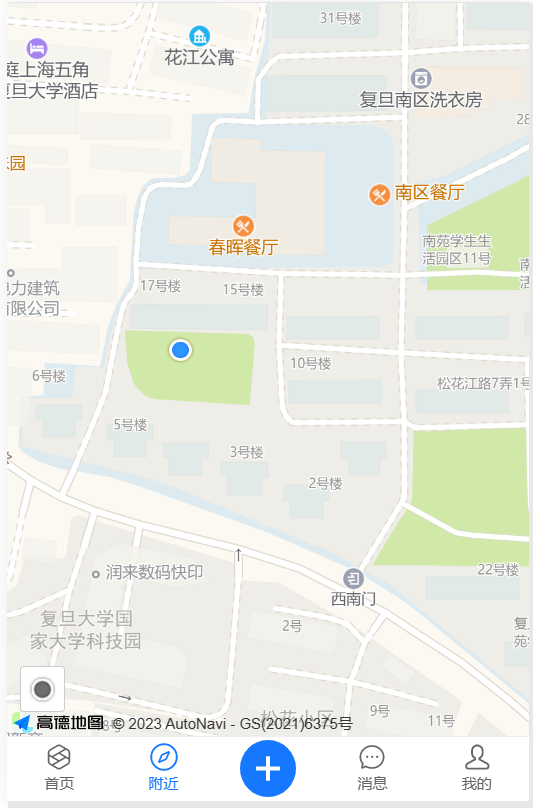
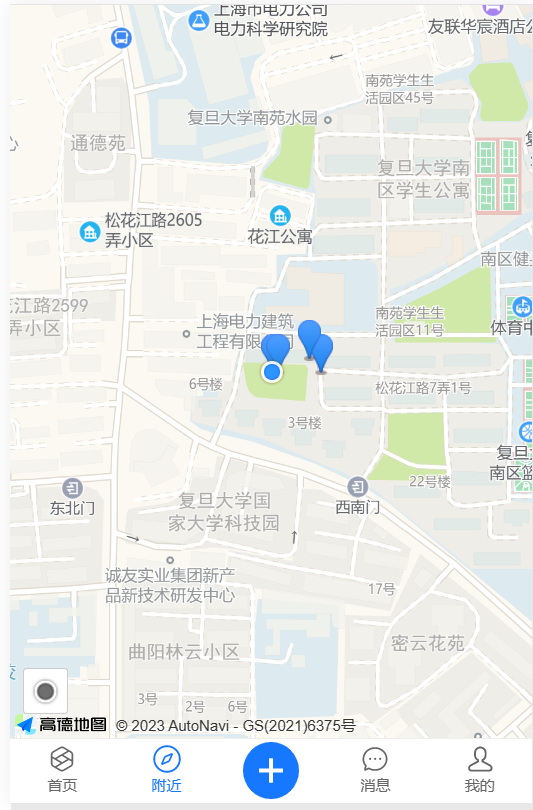
add home page

diff --git a/src/layout/Home/Home.tsx b/src/layout/Home/Home.tsx
@@ -1,20 +1,19 @@
 import Bottom from '../../compoment/Bottom/Bottom';
+import { Card, Space, NavBar } from 'antd-mobile'
+import { useState } from 'react';
+import { HeartOutline, MessageOutline } from 'antd-mobile-icons'
+import curPos from '../../utils/getCurPosition';
 
-const waitTime = (time: number = 100) => {
-	return new Promise((resolve) => {
-	  setTimeout(() => {
-		resolve(true);
-	  }, time);
-	});
-};
 
 // h5 position
 const positionClick = () => {
 	navigator.geolocation.getCurrentPosition(res => {
-		alert('hello')
 	  	console.log("获取位置成功:", res);
+		let [longitude, latitude] = [res.coords.longitude, res.coords.latitude];
+ 		window.AMap.convertFrom([longitude, latitude], "gps", function (status:any, result:any) {
+			console.log([result.locations[0].getLng(), result.locations[0].getLat()]);
+		});
 	}, err => {
-		alert(err.message)
 	  	console.log("获取位置失败:", err);
 	}, {
 	  	enableHighAccuracy: true,
@@ -25,11 +24,47 @@ const positionClick = () => {
 
 // 显示周围的帖子 latitude 维度 longitude 经度
 function Home() {
+
+	type post = {
+		locationx: number,
+		locationy: number,
+		title: string,
+		content: string,
+		likes: number,
+		comment_numbers: number,
+	};
+
+	const test_posts:post[] = [
+		{locationx:121.1, locationy:31.222, title:'Good weather', content:'Today is a good day!', likes: 26, comment_numbers: 5},
+		{locationx:121.1, locationy:31.221, title:'Peace Mood', content:'I will be better.', likes: 550, comment_numbers: 267},
+	];
+
+	const [posts, setPosts] = useState(test_posts);
+	
+	const listPosts = posts.map((post) =>
+		<>
+			<Space></Space>
+			<Card title={post.title} >
+				<Space direction='vertical'>
+					{post.content}
+					<Space>
+						<HeartOutline onClick={() => {alert("暂不支持该功能");}}/>{post.likes}
+						<MessageOutline />{post.comment_numbers}
+					</Space>
+				</Space>
+			</Card>
+		</>
+  	);
+
 	return (
 		<div>
-			
-			
-			<button onClick={positionClick}>Home</button>
+			<NavBar backArrow={false} style={{background:'linear-gradient(to left, #58ACFA, #1677FF)', color:'white'}}>主页</NavBar>
+			<div  style={{background: 'rgb(240,240,240)', width: '100%', height:'85%', position: 'absolute'}}>
+				{/* <button onClick={positionClick}>Home</button> */}
+				<Space direction='vertical' style={{width:'90%', margin: 'auto'}} block>
+					{ listPosts }
+				</Space>
+			</div>
 			<Bottom activeKey='/home' />
 		</div>
 	);

diff --git a/src/layout/Nearby/Nearby.tsx b/src/layout/Nearby/Nearby.tsx
@@ -1,18 +1,42 @@
 import Bottom from '../../compoment/Bottom/Bottom';
 import PMap from "../../compoment/PMap/PMap";
 
-const waitTime = (time: number = 100) => {
-	return new Promise((resolve) => {
-	  setTimeout(() => {
-		resolve(true);
-	  }, time);
-	});
-};
-
 function Nearby() {
 	return (
 		<div>
-			<PMap></PMap>
+			<PMap markers={[
+				{
+					position:{
+						longitude: 121.49959364149402, 
+						latitude:31.291439344619
+					}
+				},
+				{
+					position:{
+						longitude: 121.5, 
+						latitude:31.291439344619
+					}
+				},
+				{
+					position:{
+						longitude: 121.4999,
+						latitude:31.291539354639
+					}
+				},
+				{
+					position:{
+						longitude: 121.49513275340739,
+						latitude:31.293415136366892
+					}
+				},
+				{
+					position:{
+						longitude: 121.499632,
+						latitude:31.29144
+					}
+				}
+			]}>
+			</PMap>
 			<Bottom activeKey='/nearby'/>
 		</div>
 	);

diff --git a/src/utils/getCurPosition.tsx b/src/utils/getCurPosition.tsx
@@ -1,0 +1,25 @@
+// Get current position
+function curPos() {
+	navigator.geolocation.getCurrentPosition(res => {
+	  	console.log("获取位置成功:", res);
+		let [longitude, latitude] = [res.coords.longitude, res.coords.latitude];
+ 		window.AMap.convertFrom([longitude, latitude], "gps", function (status:any, result:any) {
+			console.log([result.locations[0].getLng(), result.locations[0].getLat()]);
+			return {
+				position: {
+					longitude: result.locations[0].getLng(),
+					latitude: result.locations[0].getLat()
+				}
+			};
+		});
+	}, err => {
+	  	console.log("获取位置失败:", err);
+		return "error";
+	}, {
+	  	enableHighAccuracy: true,
+	  	timeout: 5000,
+	  	maximumAge: 0
+	});
+}
+
+export default curPos;

diff --git a/src/compoment/PMap/PMap.tsx b/src/compoment/PMap/PMap.tsx
@@ -1,11 +1,13 @@
 import { Component } from 'react';
 import { Map } from "react-amap";
+import { Markers } from 'react-amap';
 
-class PMap extends Component {
+class PMap extends Component<any, any> {
 	geolocEvent;
 
 	constructor(props:any) {
 		super(props);
+
 		this.geolocEvent = {
 			
 			created: (mapInstance:any) => {
@@ -37,6 +39,9 @@ class PMap extends Component {
 			}
 		};
 
+		this.state = {
+			markers: props.markers
+		}
 	};
 
 	render() {
@@ -46,7 +51,13 @@ class PMap extends Component {
 					amapkey='beccac67beb8de7befaf981b6b958614'
 					zoom={14}
 					events={this.geolocEvent}
-				/>
+				>
+					<Markers markers={this.state.markers}>
+
+					</Markers>
+
+				</Map>
+				
 			</div>
 		)
 	}

diff --git a/src/layout/Register/Register.tsx b/src/layout/Register/Register.tsx
@@ -5,14 +5,6 @@ import { useNavigate } from 'react-router-dom';
 import axios from 'axios';
 import "./Register.css"
 
-const waitTime = (time: number = 100) => {
-	return new Promise((resolve) => {
-	  setTimeout(() => {
-		resolve(true);
-	  }, time);
-	});
-};
-
 export default function () {
 	const [visible, setVisible] = useState(false)
 
@@ -49,7 +41,7 @@ export default function () {
 							icon: 'success',
 							content: '注册成功',
 						});
-						navigate('/home');
+						navigate('/nearby');
 					} else {
 						Toast.show({
 							icon: 'fail',

diff --git a/src/layout/Login/Login.tsx b/src/layout/Login/Login.tsx
@@ -73,7 +73,7 @@ export default () => {
 				icon: 'success',
 				content: '登录成功，欢迎使用本产品',
 			});
-			navigate('/home');
+			navigate('/nearby');
 		} else {
 			Toast.show({
 				icon: 'fail',

diff --git a/README.md b/README.md
@@ -3,6 +3,7 @@
 ## 界面展示
 ONLY FOR PC！！！
 由于浏览器获取当前地址时要求必须访问 https 或是其他安全网站，所以本项目只在本地 PC 进行。
+由于高德地图 api 调用需要先实例化窗口，所以登录或注册后默认为 nearby 页面。
 
 ### 登录界面
 
@@ -55,6 +56,7 @@ want
 
 调用后端服务路径
 	1. `Get` `api/user/post`
+
 ```javascript
 give
 {
@@ -67,7 +69,7 @@ want 不需要详细内容，只展示位置
 	list[] posts{
 		post {
 			"id": "1",
-			^"title": "string",
+			"title": "string",
 			"location_x": 123.1,
 			"location_y": 123.2
 		}
@@ -77,4 +79,56 @@ want 不需要详细内容，只展示位置
 ```
 
 ### 主页
+
+![home.png](./UI/home.png)
+
+调用后端服务路径
+
+`GET` `api/user/post`
+
+```javascript
+give
+{
+	location_x: number 	// 当前位置经度，如上海 121.xxx
+	location_y: number 	// 当前位置维度，如上海 31.xxx
+	distance: number	// 与当前位置的距离
+}
+want 需要详细内容，只展示位置
+{
+	list[] posts{
+		post {
+			"id": "1",
+			"title": "string",
+            ^"content": "string",
+            ^"likes": "string",
+            ^"comment_number": 1,
+			"location_x": 123.1,
+			"location_y": 123.2
+		}
+	}
+		
+}
+```
+
+考虑到 `api` 无法区分，可以统一格式为简略格式，无多余功能
+
+```javascript
+want 不需要详细内容，只展示位置
+{
+	list[] posts{
+		post {
+			"id": "1",
+			"title": "string",
+			"location_x": 123.1,
+			"location_y": 123.2
+		}
+	}
+		
+}
+```
+
+### 帖子详情页
+
+### 创建帖子以及评论
+
 **to be continued**
